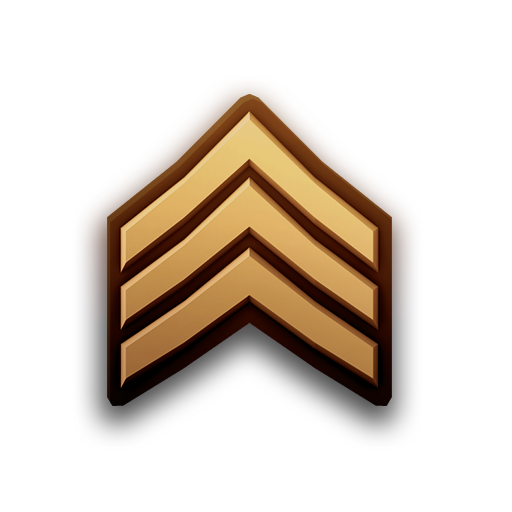
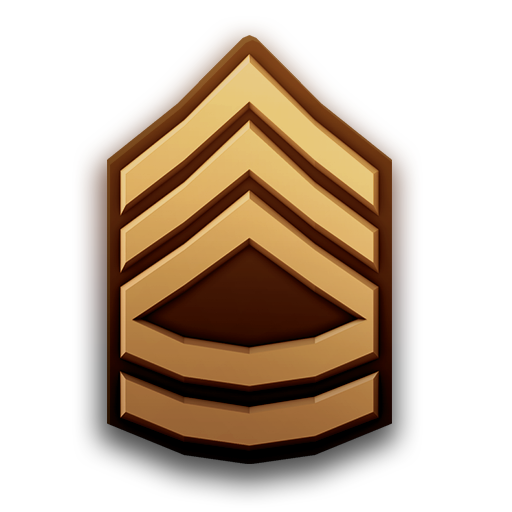
v0.0.17 ranks: bronze chevron designs for tiers 1–3, silver for tiers 4–6 (new silver senior chevrons for Inkslinger)
Each rank moves down one: Scribbler's art to Blank Page, Dog-Ear's to Scribbler, Paper Dart's to
Dog-Ear, Glider's to Paper Dart, Inkslinger's to Glider. The first downward Blank Page chevrons
are kept as unassigned.

Claude-Session: https://claude.ai/code/session_01WVtVwSA278bNE4nXGcRcZg

diff --git a/assets/ranks/README.md b/assets/ranks/README.md
@@ -3,20 +3,28 @@
 The developer's insignia art, one PNG per rank level, with transparent backgrounds. Files are
 named `<rank-id>-<level>.png`. They are wired into the game once every batch has arrived.
 
+Each metal runs through the same three chevron designs (plain chevrons, chevrons over a rocker,
+senior chevrons with bars), then the same star designs (one to four stars).
+
 | Tier | Rank | Soldier equivalent | Levels | Files |
 |---|---|---|---|---|
-| 1 | Blank Page | Recruit | I–III (three only) | `blank-page-1.png` (one bronze chevron), `blank-page-2.png` (two), `blank-page-3.png` (three) |
-| 2 | Scribbler | Private | I–III (three only) | `scribbler-1.png` (one bronze upward chevron, dark outline), `scribbler-2.png` (two), `scribbler-3.png` (three) |
-| 3 | Dog-Ear | Private First Class | I–III (three only) | `dog-ear-1.png` (bronze: one chevron over a rocker), `dog-ear-2.png` (three chevrons over a rocker), `dog-ear-3.png` (three chevrons, a rocker and two bars) |
-| 4 | Paper Dart | Corporal | I–III (three only) | `paper-dart-1.png` (bronze: three chevrons, a rocker and three bars, plain centre), `paper-dart-2.png` (a diamond in the centre), `paper-dart-3.png` (a star in the centre) |
-| 5 | Glider | Sergeant | I–III (three only) | `glider-1.png` (one silver upward chevron, dark outline), `glider-2.png` (two), `glider-3.png` (three) |
-| 6 | Inkslinger | Staff Sergeant | I–III (three only) | `inkslinger-1.png` (silver: one chevron over a rocker), `inkslinger-2.png` (three chevrons over a rocker), `inkslinger-3.png` (three chevrons, a rocker and two bars) |
-| 9 | Origami Ace | Captain | I–IV | Not received as files yet: bronze stars, one to four (one, two, three in a triangle, four in a diamond) |
-| 9b | High Flyer (new, between Origami Ace and Sky Scholar) | Captain | I–IV | `high-flyer-1.png` (one silver star), `high-flyer-2.png` (two), `high-flyer-3.png` (three in a triangle), `high-flyer-4.png` (four in a diamond) |
-| 10 | Sky Scholar | Major | I–IV | `sky-scholar-1.png` (one gold star). Not received as files yet: II (two stars), III (three stars in a close equilateral triangle), IV (four stars in a diamond) |
-| 11 | Valedictorian | Colonel | I–III: bronze, silver, gold thin wings | `valedictorian-1.png` (bronze), `valedictorian-2.png` (silver), `valedictorian-3.png` (gold) |
-| 12 | Head of the Class | General | I–III: bronze, silver, gold thick wings | `head-of-the-class-1.png` (bronze), `head-of-the-class-2.png` (silver), `head-of-the-class-3.png` (gold) |
+| 1 | Blank Page | Recruit | I–III | Bronze upward chevrons: `blank-page-1.png` (one), `-2` (two), `-3` (three) |
+| 2 | Scribbler | Private | I–III | Bronze rocker chevrons: `scribbler-1.png` (one chevron over a rocker), `-2` (three over a rocker), `-3` (three, a rocker and two bars) |
+| 3 | Dog-Ear | Private First Class | I–III | Bronze senior chevrons with three bars: `dog-ear-1.png` (plain centre), `-2` (diamond), `-3` (star) |
+| 4 | Paper Dart | Corporal | I–III | Silver upward chevrons: `paper-dart-1.png` (one), `-2` (two), `-3` (three) |
+| 5 | Glider | Sergeant | I–III | Silver rocker chevrons: `glider-1.png` (one chevron over a rocker), `-2` (three over a rocker), `-3` (three, a rocker and two bars) |
+| 6 | Inkslinger | Staff Sergeant | I–III | Silver senior chevrons with three bars: `inkslinger-1.png` (plain centre), `-2` (diamond), `-3` (star) |
+| 7 | Hall Monitor | Sergeant Major | I–III | Not received yet |
+| 8 | Paper Hawk | Warrant Officer | I–III | Not received yet |
+| 9 | Origami Ace | Lieutenant | I–IV | Not received as files yet: bronze stars, one to four |
+| 10 | High Flyer | Captain | I–IV | Silver stars: `high-flyer-1.png` (one), `-2` (two), `-3` (three in a triangle), `-4` (four in a diamond) |
+| 11 | Sky Scholar | Major | I–IV | Gold stars: `sky-scholar-1.png` (one). II–IV not received as files yet |
+| 12 | Valedictorian | Colonel | I–III | Thin wings: `valedictorian-1.png` (bronze), `-2` (silver), `-3` (gold) |
+| 13 | Head of the Class | General | I–III | Thick wings: `head-of-the-class-1.png` (bronze), `-2` (silver), `-3` (gold) |
 | ∞ | Honor Roll | Marshal | One insignia, plus stars | `honor-roll.png` (gold swept wings) |
 
-Not yet assigned to a rank: `unassigned-gold-chevrons-1.png` to `-3.png` (one, two and three gold upward chevrons
-with a dark outline, sent first as Paper Dart and then replaced).
+Not yet assigned to a rank:
+
+- `unassigned-gold-chevrons-1.png` to `-3.png`: one, two and three gold upward chevrons.
+- `unassigned-bronze-down-chevrons-1.png` to `-3.png`: the first Blank Page art, one, two and
+  three bronze downward chevrons, replaced by the upward style.
